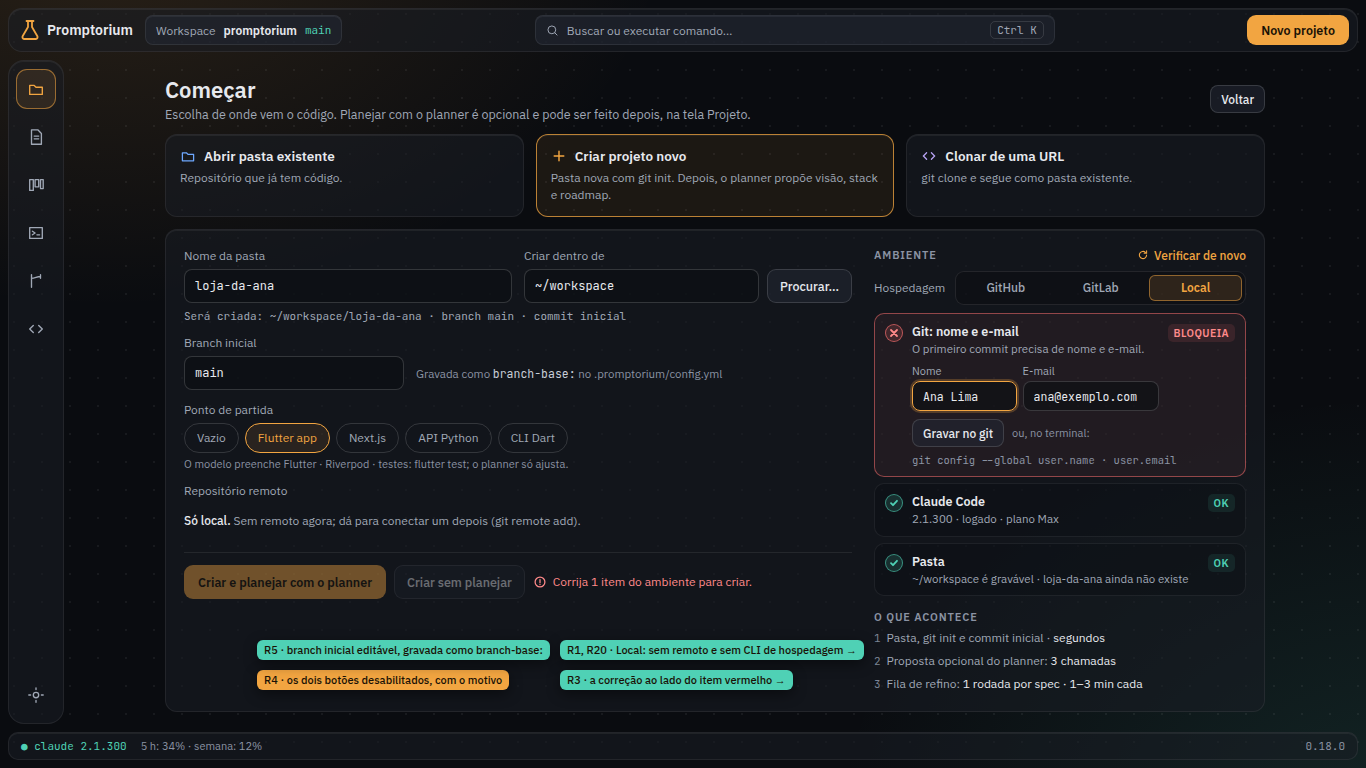
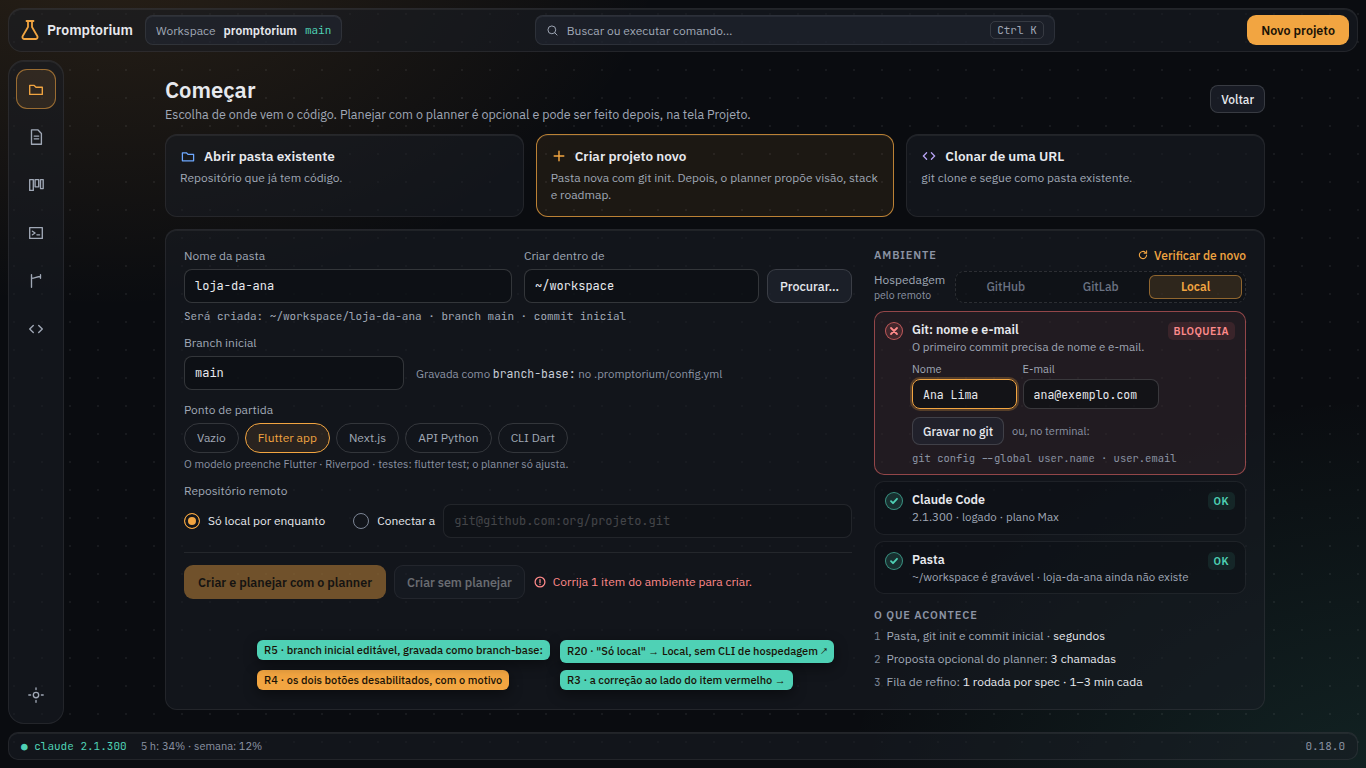
docs(spec-072): a hospedagem segue o Repositório remoto (R20–R22, P11)

diff --git a/docs/mockups/spec-072/Gitlab.dc.html b/docs/mockups/spec-072/Gitlab.dc.html
@@ -103,8 +103,8 @@ a{color:#F2A541}a:hover{color:#FFD08A}
    <span class="lbl" style="margin-top:12px">Ponto de partida</span>
    <div style="display:flex;gap:6px;flex-wrap:wrap"><span class="chip">Vazio</span><span class="chip on">Flutter app</span><span class="chip">Next.js</span><span class="chip">API Python</span><span class="chip">CLI Dart</span></div>
    <div style="font-size:11px;color:#8B93A3;margin-top:4px">O modelo preenche Flutter · Riverpod · testes: flutter test; o planner só ajusta.</div>
-   <span class="lbl" style="margin-top:12px">Repositório remoto · GitLab</span>
-   <div style="display:flex;gap:8px"><input class="in" style="width:150px;flex:none" value="gitlab.com" aria-label="Host do GitLab"><input class="in foc" style="flex:1" value="git@gitlab.com:ana-lima/loja-da-ana.git" aria-label="URL do remoto"></div><div style="font-size:11px;color:#8B93A3;margin-top:4px">GitLab próprio: troque o host. O glab confere esse host, e ele vai para hospedagem: no config.yml.</div>
+   <span class="lbl" style="margin-top:12px">Repositório remoto</span>
+   <div style="display:flex;align-items:center;gap:8px;font-size:12px"><span class="radio"></span>Só local por enquanto<span style="width:12px"></span><span class="radio on"></span>Conectar a<input class="in" style="flex:1" value="git@gitlab.com:ana-lima/loja-da-ana.git"></div>
    <div style="height:1px;background:rgba(255,255,255,.08);margin:14px 0 12px"></div>
    <div style="display:flex;align-items:center;gap:8px">
     <button class="cta">Criar e planejar com o planner</button>
@@ -114,7 +114,7 @@ a{color:#F2A541}a:hover{color:#FFD08A}
   </div>
   <div style="width:372px;flex:none;display:flex;flex-direction:column;gap:6px">
    <div style="display:flex;align-items:center;margin-bottom:2px"><span class="cap" style="flex:1">Ambiente</span><button class="link"><svg aria-hidden="true" width="12" height="12" viewBox="0 0 20 20" fill="none" stroke="#F2A541" stroke-width="1.8" stroke-linecap="round"><path d="M16 10a6 6 0 1 1-2-4.5M16 3v4h-4"/></svg>Verificar de novo</button></div>
-   <div style="display:flex;align-items:center;gap:10px;margin-bottom:2px"><span style="font-size:12px;color:#A0A8B6">Hospedagem</span><div role="radiogroup" aria-label="Hospedagem" style="flex:1;display:flex;padding:3px;gap:2px;border-radius:9px;background:rgba(10,12,16,.45);border:1px solid rgba(255,255,255,.09)"><button role="radio" aria-checked="false" style="flex:1;height:26px;border:0;border-radius:6px;font:500 12px IBM Plex Sans;background:transparent;color:#A0A8B6">GitHub</button><button role="radio" aria-checked="true" style="flex:1;height:26px;border:0;border-radius:6px;font:500 12px IBM Plex Sans;background:rgba(242,165,65,.14);box-shadow:inset 0 0 0 1px rgba(242,165,65,.5);color:#F2A541;font-weight:600">GitLab</button><button role="radio" aria-checked="false" style="flex:1;height:26px;border:0;border-radius:6px;font:500 12px IBM Plex Sans;background:transparent;color:#A0A8B6">Local</button></div></div>
+   <div style="display:flex;align-items:center;gap:10px;margin-bottom:2px"><span style="font-size:12px;color:#A0A8B6;line-height:1.25">Hospedagem<br><span style="font-size:10.5px;color:#8B93A3">pelo remoto</span></span><div role="status" aria-label="Hospedagem detectada pelo remoto: GitLab" style="flex:1;display:flex;padding:3px;gap:2px;border-radius:9px;background:rgba(10,12,16,.3);border:1px dashed rgba(255,255,255,.12)"><span style="flex:1;height:24px;display:flex;align-items:center;justify-content:center;border-radius:6px;font:500 12px IBM Plex Sans;background:transparent;color:#6B7383">GitHub</span><span style="flex:1;height:24px;display:flex;align-items:center;justify-content:center;border-radius:6px;font:500 12px IBM Plex Sans;background:rgba(242,165,65,.14);box-shadow:inset 0 0 0 1px rgba(242,165,65,.5);color:#F2A541;font-weight:600">GitLab</span><span style="flex:1;height:24px;display:flex;align-items:center;justify-content:center;border-radius:6px;font:500 12px IBM Plex Sans;background:transparent;color:#6B7383">Local</span></div></div>
    <ul style="margin:0;padding:0;display:flex;flex-direction:column;gap:5px" aria-live="polite">
     <li class="chk" style="padding:7px 10px;align-items:center"><span class="mk ok" aria-hidden="true"><svg width="10" height="10" viewBox="0 0 10 10" fill="none" stroke="#4FD1B5" stroke-width="1.8" stroke-linecap="round" stroke-linejoin="round"><path d="M2 5.2l2 2 4-4.4"/></svg></span><div class="t" style="flex-direction:row;gap:8px;align-items:baseline"><b style="flex:none">Git</b><small style="white-space:nowrap;overflow:hidden;text-overflow:ellipsis">Ana Lima · ana@exemplo.com</small></div><span class="st ok" style="margin-top:0">ok</span></li>
     <li class="chk" style="padding:7px 10px;align-items:center"><span class="mk ok" aria-hidden="true"><svg width="10" height="10" viewBox="0 0 10 10" fill="none" stroke="#4FD1B5" stroke-width="1.8" stroke-linecap="round" stroke-linejoin="round"><path d="M2 5.2l2 2 4-4.4"/></svg></span><div class="t" style="flex-direction:row;gap:8px;align-items:baseline"><b style="flex:none">Claude Code</b><small style="white-space:nowrap;overflow:hidden;text-overflow:ellipsis">2.1.300 · logado · plano Max</small></div><span class="st ok" style="margin-top:0">ok</span></li>
@@ -132,7 +132,7 @@ a{color:#F2A541}a:hover{color:#FFD08A}
  </section>
 </div>
 </main>
-<div class="note" style="left:257px;top:640px">R21 · GitLab: host editável (self-hosted) e remoto sugerido</div>
+<div class="note" style="left:257px;top:640px">R20 · "Conectar a" com URL do gitlab.com → GitLab: confere o glab no host da URL ↗</div>
 <div class="note warn" style="left:257px;top:670px">R20 · glab deslogado é aviso, não bloqueia: "Criar" segue livre</div>
 </div>
 </x-dc>

diff --git a/docs/mockups/spec-072/TudoVerde.dc.html b/docs/mockups/spec-072/TudoVerde.dc.html
@@ -103,8 +103,8 @@ a{color:#F2A541}a:hover{color:#FFD08A}
    <span class="lbl" style="margin-top:12px">Ponto de partida</span>
    <div style="display:flex;gap:6px;flex-wrap:wrap"><span class="chip">Vazio</span><span class="chip on">Flutter app</span><span class="chip">Next.js</span><span class="chip">API Python</span><span class="chip">CLI Dart</span></div>
    <div style="font-size:11px;color:#8B93A3;margin-top:4px">O modelo preenche Flutter · Riverpod · testes: flutter test; o planner só ajusta.</div>
-   <span class="lbl" style="margin-top:12px">Repositório remoto · GitHub</span>
-   <input class="in" value="git@github.com:ana-lima/loja-da-ana.git"><div style="font-size:11px;color:#8B93A3;margin-top:4px">Sugerido pela conta do gh (ana-lima) e pelo nome da pasta.</div>
+   <span class="lbl" style="margin-top:12px">Repositório remoto</span>
+   <div style="display:flex;align-items:center;gap:8px;font-size:12px"><span class="radio"></span>Só local por enquanto<span style="width:12px"></span><span class="radio on"></span>Conectar a<input class="in" style="flex:1" value="git@github.com:ana-lima/loja-da-ana.git"></div>
    <div style="height:1px;background:rgba(255,255,255,.08);margin:14px 0 12px"></div>
    <div style="display:flex;align-items:center;gap:8px">
     <button class="cta">Criar e planejar com o planner</button>
@@ -114,7 +114,7 @@ a{color:#F2A541}a:hover{color:#FFD08A}
   </div>
   <div style="width:372px;flex:none;display:flex;flex-direction:column;gap:6px">
    <div style="display:flex;align-items:center;margin-bottom:2px"><span class="cap" style="flex:1">Ambiente</span><button class="link"><svg aria-hidden="true" width="12" height="12" viewBox="0 0 20 20" fill="none" stroke="#F2A541" stroke-width="1.8" stroke-linecap="round"><path d="M16 10a6 6 0 1 1-2-4.5M16 3v4h-4"/></svg>Verificar de novo</button></div>
-   <div style="display:flex;align-items:center;gap:10px;margin-bottom:2px"><span style="font-size:12px;color:#A0A8B6">Hospedagem</span><div role="radiogroup" aria-label="Hospedagem" style="flex:1;display:flex;padding:3px;gap:2px;border-radius:9px;background:rgba(10,12,16,.45);border:1px solid rgba(255,255,255,.09)"><button role="radio" aria-checked="true" style="flex:1;height:26px;border:0;border-radius:6px;font:500 12px IBM Plex Sans;background:rgba(242,165,65,.14);box-shadow:inset 0 0 0 1px rgba(242,165,65,.5);color:#F2A541;font-weight:600">GitHub</button><button role="radio" aria-checked="false" style="flex:1;height:26px;border:0;border-radius:6px;font:500 12px IBM Plex Sans;background:transparent;color:#A0A8B6">GitLab</button><button role="radio" aria-checked="false" style="flex:1;height:26px;border:0;border-radius:6px;font:500 12px IBM Plex Sans;background:transparent;color:#A0A8B6">Local</button></div></div>
+   <div style="display:flex;align-items:center;gap:10px;margin-bottom:2px"><span style="font-size:12px;color:#A0A8B6;line-height:1.25">Hospedagem<br><span style="font-size:10.5px;color:#8B93A3">pelo remoto</span></span><div role="status" aria-label="Hospedagem detectada pelo remoto: GitHub" style="flex:1;display:flex;padding:3px;gap:2px;border-radius:9px;background:rgba(10,12,16,.3);border:1px dashed rgba(255,255,255,.12)"><span style="flex:1;height:24px;display:flex;align-items:center;justify-content:center;border-radius:6px;font:500 12px IBM Plex Sans;background:rgba(242,165,65,.14);box-shadow:inset 0 0 0 1px rgba(242,165,65,.5);color:#F2A541;font-weight:600">GitHub</span><span style="flex:1;height:24px;display:flex;align-items:center;justify-content:center;border-radius:6px;font:500 12px IBM Plex Sans;background:transparent;color:#6B7383">GitLab</span><span style="flex:1;height:24px;display:flex;align-items:center;justify-content:center;border-radius:6px;font:500 12px IBM Plex Sans;background:transparent;color:#6B7383">Local</span></div></div>
    <ul style="margin:0;padding:0;display:flex;flex-direction:column;gap:5px" aria-live="polite">
     <li class="chk" style="padding:7px 10px;align-items:center"><span class="mk ok" aria-hidden="true"><svg width="10" height="10" viewBox="0 0 10 10" fill="none" stroke="#4FD1B5" stroke-width="1.8" stroke-linecap="round" stroke-linejoin="round"><path d="M2 5.2l2 2 4-4.4"/></svg></span><div class="t" style="flex-direction:row;gap:8px;align-items:baseline"><b style="flex:none">Git</b><small style="white-space:nowrap;overflow:hidden;text-overflow:ellipsis">Ana Lima · ana@exemplo.com</small></div><span class="st ok" style="margin-top:0">ok</span></li>
     <li class="chk" style="padding:7px 10px;align-items:center"><span class="mk ok" aria-hidden="true"><svg width="10" height="10" viewBox="0 0 10 10" fill="none" stroke="#4FD1B5" stroke-width="1.8" stroke-linecap="round" stroke-linejoin="round"><path d="M2 5.2l2 2 4-4.4"/></svg></span><div class="t" style="flex-direction:row;gap:8px;align-items:baseline"><b style="flex:none">Claude Code</b><small style="white-space:nowrap;overflow:hidden;text-overflow:ellipsis">2.1.300 · logado · plano Max</small></div><span class="st ok" style="margin-top:0">ok</span></li>
@@ -135,7 +135,7 @@ a{color:#F2A541}a:hover{color:#FFD08A}
 </div>
 </main>
 <div class="note" style="left:257px;top:640px">R5 · branch editada: vira git init -b trunk e branch-base: trunk</div>
-<div class="note" style="left:257px;top:670px">R20, R21 · GitHub: confere o gh e sugere o remoto pela conta</div>
+<div class="note" style="left:257px;top:670px">R20 · "Conectar a" com URL do github.com → GitHub: confere o gh ↗</div>
 <div class="note" style="left:610px;top:612px">R7, R8 · chamadas, fila e quota, sem dólar →</div>
 </div>
 </x-dc>

diff --git a/docs/mockups/spec-072/StackEscolhida.dc.html b/docs/mockups/spec-072/StackEscolhida.dc.html
@@ -103,8 +103,8 @@ a{color:#F2A541}a:hover{color:#FFD08A}
    <span class="lbl" style="margin-top:12px">Ponto de partida</span>
    <div style="display:flex;gap:6px;flex-wrap:wrap"><span class="chip">Vazio</span><span class="chip">Flutter app</span><span class="chip">Next.js</span><span class="chip">API Python</span><span class="chip">CLI Dart</span><button class="chip on" style="gap:6px" aria-label="Go · Fiber, escolhida com o Claude. Editar">Go · Fiber <svg aria-hidden="true" width="11" height="11" viewBox="0 0 20 20" fill="none" stroke="#F2A541" stroke-width="1.8" stroke-linecap="round" stroke-linejoin="round"><path d="M4 16l1-4 8-8 3 3-8 8zM11 6l3 3"/></svg></button></div>
    <div style="font-size:11px;color:#8B93A3;margin-top:4px">Definida com o Claude: Go · Fiber · PostgreSQL · testes: go test ./... · CLAUDE.md base; o planner só ajusta.</div>
-   <span class="lbl" style="margin-top:12px">Repositório remoto · GitHub</span>
-   <input class="in" value="git@github.com:ana-lima/loja-da-ana.git"><div style="font-size:11px;color:#8B93A3;margin-top:4px">Sugerido pela conta do gh (ana-lima) e pelo nome da pasta.</div>
+   <span class="lbl" style="margin-top:12px">Repositório remoto</span>
+   <div style="display:flex;align-items:center;gap:8px;font-size:12px"><span class="radio"></span>Só local por enquanto<span style="width:12px"></span><span class="radio on"></span>Conectar a<input class="in" style="flex:1" value="git@github.com:ana-lima/loja-da-ana.git"></div>
    <div style="height:1px;background:rgba(255,255,255,.08);margin:14px 0 12px"></div>
    <div style="display:flex;align-items:center;gap:8px">
     <button class="cta">Criar e planejar com o planner</button>
@@ -114,7 +114,7 @@ a{color:#F2A541}a:hover{color:#FFD08A}
   </div>
   <div style="width:372px;flex:none;display:flex;flex-direction:column;gap:6px">
    <div style="display:flex;align-items:center;margin-bottom:2px"><span class="cap" style="flex:1">Ambiente</span><button class="link"><svg aria-hidden="true" width="12" height="12" viewBox="0 0 20 20" fill="none" stroke="#F2A541" stroke-width="1.8" stroke-linecap="round"><path d="M16 10a6 6 0 1 1-2-4.5M16 3v4h-4"/></svg>Verificar de novo</button></div>
-   <div style="display:flex;align-items:center;gap:10px;margin-bottom:2px"><span style="font-size:12px;color:#A0A8B6">Hospedagem</span><div role="radiogroup" aria-label="Hospedagem" style="flex:1;display:flex;padding:3px;gap:2px;border-radius:9px;background:rgba(10,12,16,.45);border:1px solid rgba(255,255,255,.09)"><button role="radio" aria-checked="true" style="flex:1;height:26px;border:0;border-radius:6px;font:500 12px IBM Plex Sans;background:rgba(242,165,65,.14);box-shadow:inset 0 0 0 1px rgba(242,165,65,.5);color:#F2A541;font-weight:600">GitHub</button><button role="radio" aria-checked="false" style="flex:1;height:26px;border:0;border-radius:6px;font:500 12px IBM Plex Sans;background:transparent;color:#A0A8B6">GitLab</button><button role="radio" aria-checked="false" style="flex:1;height:26px;border:0;border-radius:6px;font:500 12px IBM Plex Sans;background:transparent;color:#A0A8B6">Local</button></div></div>
+   <div style="display:flex;align-items:center;gap:10px;margin-bottom:2px"><span style="font-size:12px;color:#A0A8B6;line-height:1.25">Hospedagem<br><span style="font-size:10.5px;color:#8B93A3">pelo remoto</span></span><div role="status" aria-label="Hospedagem detectada pelo remoto: GitHub" style="flex:1;display:flex;padding:3px;gap:2px;border-radius:9px;background:rgba(10,12,16,.3);border:1px dashed rgba(255,255,255,.12)"><span style="flex:1;height:24px;display:flex;align-items:center;justify-content:center;border-radius:6px;font:500 12px IBM Plex Sans;background:rgba(242,165,65,.14);box-shadow:inset 0 0 0 1px rgba(242,165,65,.5);color:#F2A541;font-weight:600">GitHub</span><span style="flex:1;height:24px;display:flex;align-items:center;justify-content:center;border-radius:6px;font:500 12px IBM Plex Sans;background:transparent;color:#6B7383">GitLab</span><span style="flex:1;height:24px;display:flex;align-items:center;justify-content:center;border-radius:6px;font:500 12px IBM Plex Sans;background:transparent;color:#6B7383">Local</span></div></div>
    <ul style="margin:0;padding:0;display:flex;flex-direction:column;gap:5px" aria-live="polite">
     <li class="chk" style="padding:7px 10px;align-items:center"><span class="mk ok" aria-hidden="true"><svg width="10" height="10" viewBox="0 0 10 10" fill="none" stroke="#4FD1B5" stroke-width="1.8" stroke-linecap="round" stroke-linejoin="round"><path d="M2 5.2l2 2 4-4.4"/></svg></span><div class="t" style="flex-direction:row;gap:8px;align-items:baseline"><b style="flex:none">Git</b><small style="white-space:nowrap;overflow:hidden;text-overflow:ellipsis">Ana Lima · ana@exemplo.com</small></div><span class="st ok" style="margin-top:0">ok</span></li>
     <li class="chk" style="padding:7px 10px;align-items:center"><span class="mk ok" aria-hidden="true"><svg width="10" height="10" viewBox="0 0 10 10" fill="none" stroke="#4FD1B5" stroke-width="1.8" stroke-linecap="round" stroke-linejoin="round"><path d="M2 5.2l2 2 4-4.4"/></svg></span><div class="t" style="flex-direction:row;gap:8px;align-items:baseline"><b style="flex:none">Claude Code</b><small style="white-space:nowrap;overflow:hidden;text-overflow:ellipsis">2.1.300 · logado · plano Max</small></div><span class="st ok" style="margin-top:0">ok</span></li>

diff --git a/docs/mockups/spec-072/Outro.dc.html b/docs/mockups/spec-072/Outro.dc.html
@@ -103,8 +103,8 @@ a{color:#F2A541}a:hover{color:#FFD08A}
    <span class="lbl" style="margin-top:12px">Ponto de partida</span>
    <div style="display:flex;gap:6px;flex-wrap:wrap"><span class="chip">Vazio</span><span class="chip">Flutter app</span><span class="chip">Next.js</span><span class="chip">API Python</span><span class="chip">CLI Dart</span><span class="chip on">Outro…</span></div>
    <div style="font-size:11px;color:#8B93A3;margin-top:4px">O modelo preenche Flutter · Riverpod · testes: flutter test; o planner só ajusta.</div>
-   <span class="lbl" style="margin-top:12px">Repositório remoto · GitHub</span>
-   <input class="in" value="git@github.com:ana-lima/loja-da-ana.git"><div style="font-size:11px;color:#8B93A3;margin-top:4px">Sugerido pela conta do gh (ana-lima) e pelo nome da pasta.</div>
+   <span class="lbl" style="margin-top:12px">Repositório remoto</span>
+   <div style="display:flex;align-items:center;gap:8px;font-size:12px"><span class="radio"></span>Só local por enquanto<span style="width:12px"></span><span class="radio on"></span>Conectar a<input class="in" style="flex:1" value="git@github.com:ana-lima/loja-da-ana.git"></div>
    <div style="height:1px;background:rgba(255,255,255,.08);margin:14px 0 12px"></div>
    <div style="display:flex;align-items:center;gap:8px">
     <button class="cta">Criar e planejar com o planner</button>
@@ -114,7 +114,7 @@ a{color:#F2A541}a:hover{color:#FFD08A}
   </div>
   <div style="width:372px;flex:none;display:flex;flex-direction:column;gap:6px">
    <div style="display:flex;align-items:center;margin-bottom:2px"><span class="cap" style="flex:1">Ambiente</span><button class="link"><svg aria-hidden="true" width="12" height="12" viewBox="0 0 20 20" fill="none" stroke="#F2A541" stroke-width="1.8" stroke-linecap="round"><path d="M16 10a6 6 0 1 1-2-4.5M16 3v4h-4"/></svg>Verificar de novo</button></div>
-   <div style="display:flex;align-items:center;gap:10px;margin-bottom:2px"><span style="font-size:12px;color:#A0A8B6">Hospedagem</span><div role="radiogroup" aria-label="Hospedagem" style="flex:1;display:flex;padding:3px;gap:2px;border-radius:9px;background:rgba(10,12,16,.45);border:1px solid rgba(255,255,255,.09)"><button role="radio" aria-checked="true" style="flex:1;height:26px;border:0;border-radius:6px;font:500 12px IBM Plex Sans;background:rgba(242,165,65,.14);box-shadow:inset 0 0 0 1px rgba(242,165,65,.5);color:#F2A541;font-weight:600">GitHub</button><button role="radio" aria-checked="false" style="flex:1;height:26px;border:0;border-radius:6px;font:500 12px IBM Plex Sans;background:transparent;color:#A0A8B6">GitLab</button><button role="radio" aria-checked="false" style="flex:1;height:26px;border:0;border-radius:6px;font:500 12px IBM Plex Sans;background:transparent;color:#A0A8B6">Local</button></div></div>
+   <div style="display:flex;align-items:center;gap:10px;margin-bottom:2px"><span style="font-size:12px;color:#A0A8B6;line-height:1.25">Hospedagem<br><span style="font-size:10.5px;color:#8B93A3">pelo remoto</span></span><div role="status" aria-label="Hospedagem detectada pelo remoto: GitHub" style="flex:1;display:flex;padding:3px;gap:2px;border-radius:9px;background:rgba(10,12,16,.3);border:1px dashed rgba(255,255,255,.12)"><span style="flex:1;height:24px;display:flex;align-items:center;justify-content:center;border-radius:6px;font:500 12px IBM Plex Sans;background:rgba(242,165,65,.14);box-shadow:inset 0 0 0 1px rgba(242,165,65,.5);color:#F2A541;font-weight:600">GitHub</span><span style="flex:1;height:24px;display:flex;align-items:center;justify-content:center;border-radius:6px;font:500 12px IBM Plex Sans;background:transparent;color:#6B7383">GitLab</span><span style="flex:1;height:24px;display:flex;align-items:center;justify-content:center;border-radius:6px;font:500 12px IBM Plex Sans;background:transparent;color:#6B7383">Local</span></div></div>
    <ul style="margin:0;padding:0;display:flex;flex-direction:column;gap:5px" aria-live="polite">
     <li class="chk" style="padding:7px 10px;align-items:center"><span class="mk ok" aria-hidden="true"><svg width="10" height="10" viewBox="0 0 10 10" fill="none" stroke="#4FD1B5" stroke-width="1.8" stroke-linecap="round" stroke-linejoin="round"><path d="M2 5.2l2 2 4-4.4"/></svg></span><div class="t" style="flex-direction:row;gap:8px;align-items:baseline"><b style="flex:none">Git</b><small style="white-space:nowrap;overflow:hidden;text-overflow:ellipsis">Ana Lima · ana@exemplo.com</small></div><span class="st ok" style="margin-top:0">ok</span></li>
     <li class="chk" style="padding:7px 10px;align-items:center"><span class="mk ok" aria-hidden="true"><svg width="10" height="10" viewBox="0 0 10 10" fill="none" stroke="#4FD1B5" stroke-width="1.8" stroke-linecap="round" stroke-linejoin="round"><path d="M2 5.2l2 2 4-4.4"/></svg></span><div class="t" style="flex-direction:row;gap:8px;align-items:baseline"><b style="flex:none">Claude Code</b><small style="white-space:nowrap;overflow:hidden;text-overflow:ellipsis">2.1.300 · logado · plano Max</small></div><span class="st ok" style="margin-top:0">ok</span></li>

diff --git a/docs/mockups/spec-072/Main.dc.html b/docs/mockups/spec-072/Main.dc.html
@@ -104,7 +104,7 @@ a{color:#F2A541}a:hover{color:#FFD08A}
    <div style="display:flex;gap:6px;flex-wrap:wrap"><span class="chip">Vazio</span><span class="chip on">Flutter app</span><span class="chip">Next.js</span><span class="chip">API Python</span><span class="chip">CLI Dart</span></div>
    <div style="font-size:11px;color:#8B93A3;margin-top:4px">O modelo preenche Flutter · Riverpod · testes: flutter test; o planner só ajusta.</div>
    <span class="lbl" style="margin-top:12px">Repositório remoto</span>
-   <div style="font-size:12px;color:#A0A8B6;line-height:34px"><b style="color:#E7E9EE;font-weight:500">Só local.</b> Sem remoto agora; dá para conectar um depois (git remote add).</div>
+   <div style="display:flex;align-items:center;gap:8px;font-size:12px"><span class="radio on"></span>Só local por enquanto<span style="width:12px"></span><span class="radio"></span>Conectar a<input class="in" style="flex:1;opacity:.5" value="" placeholder="git@github.com:org/projeto.git"></div>
    <div style="height:1px;background:rgba(255,255,255,.08);margin:14px 0 12px"></div>
    <div style="display:flex;align-items:center;gap:8px">
     <button class="cta off" aria-disabled="true">Criar e planejar com o planner</button>
@@ -114,7 +114,7 @@ a{color:#F2A541}a:hover{color:#FFD08A}
   </div>
   <div style="width:372px;flex:none;display:flex;flex-direction:column;gap:6px">
    <div style="display:flex;align-items:center;margin-bottom:2px"><span class="cap" style="flex:1">Ambiente</span><button class="link"><svg aria-hidden="true" width="12" height="12" viewBox="0 0 20 20" fill="none" stroke="#F2A541" stroke-width="1.8" stroke-linecap="round"><path d="M16 10a6 6 0 1 1-2-4.5M16 3v4h-4"/></svg>Verificar de novo</button></div>
-   <div style="display:flex;align-items:center;gap:10px;margin-bottom:2px"><span style="font-size:12px;color:#A0A8B6">Hospedagem</span><div role="radiogroup" aria-label="Hospedagem" style="flex:1;display:flex;padding:3px;gap:2px;border-radius:9px;background:rgba(10,12,16,.45);border:1px solid rgba(255,255,255,.09)"><button role="radio" aria-checked="false" style="flex:1;height:26px;border:0;border-radius:6px;font:500 12px IBM Plex Sans;background:transparent;color:#A0A8B6">GitHub</button><button role="radio" aria-checked="false" style="flex:1;height:26px;border:0;border-radius:6px;font:500 12px IBM Plex Sans;background:transparent;color:#A0A8B6">GitLab</button><button role="radio" aria-checked="true" style="flex:1;height:26px;border:0;border-radius:6px;font:500 12px IBM Plex Sans;background:rgba(242,165,65,.14);box-shadow:inset 0 0 0 1px rgba(242,165,65,.5);color:#F2A541;font-weight:600">Local</button></div></div>
+   <div style="display:flex;align-items:center;gap:10px;margin-bottom:2px"><span style="font-size:12px;color:#A0A8B6;line-height:1.25">Hospedagem<br><span style="font-size:10.5px;color:#8B93A3">pelo remoto</span></span><div role="status" aria-label="Hospedagem detectada pelo remoto: Local" style="flex:1;display:flex;padding:3px;gap:2px;border-radius:9px;background:rgba(10,12,16,.3);border:1px dashed rgba(255,255,255,.12)"><span style="flex:1;height:24px;display:flex;align-items:center;justify-content:center;border-radius:6px;font:500 12px IBM Plex Sans;background:transparent;color:#6B7383">GitHub</span><span style="flex:1;height:24px;display:flex;align-items:center;justify-content:center;border-radius:6px;font:500 12px IBM Plex Sans;background:transparent;color:#6B7383">GitLab</span><span style="flex:1;height:24px;display:flex;align-items:center;justify-content:center;border-radius:6px;font:500 12px IBM Plex Sans;background:rgba(242,165,65,.14);box-shadow:inset 0 0 0 1px rgba(242,165,65,.5);color:#F2A541;font-weight:600">Local</span></div></div>
    <ul style="margin:0;padding:0;display:flex;flex-direction:column;gap:6px" aria-live="polite">
     <li class="chk bad">
      <span class="mk bad" aria-hidden="true"><svg width="10" height="10" viewBox="0 0 10 10" stroke="#FF8A8A" stroke-width="1.8" stroke-linecap="round"><path d="M2 2l6 6M8 2l-6 6"/></svg></span>
@@ -143,7 +143,7 @@ a{color:#F2A541}a:hover{color:#FFD08A}
 </main>
 <div class="note warn" style="left:257px;top:670px">R4 · os dois botões desabilitados, com o motivo</div>
 <div class="note" style="left:257px;top:640px">R5 · branch inicial editável, gravada como branch-base:</div>
-<div class="note" style="left:560px;top:640px">R1, R20 · Local: sem remoto e sem CLI de hospedagem →</div>
+<div class="note" style="left:560px;top:640px">R20 · "Só local" → Local, sem CLI de hospedagem ↗</div>
 <div class="note" style="left:560px;top:670px">R3 · a correção ao lado do item vermelho →</div>
 </div>
 </x-dc>

diff --git a/docs/specs/SPEC-072-criacao-confiavel.md b/docs/specs/SPEC-072-criacao-confiavel.md
@@ -13,7 +13,7 @@ A tela Começar promete "1 s" e "~US$ 0,30". Na prática, criar e planejar leva 
 
 A SPEC-071 (R21–R26) já fez a base: repetir a criação depois de uma falha, conferir a identidade do git antes de criar a pasta, `git init -b main`, specs do roadmap no Backlog, o CLAUDE.md do modelo como base do planner e a limpeza do fluxo. Esta spec fecha o resto das faixas A1, A2, A4 e B4 do relatório de novidades:
 
-- **Checagem do ambiente** na tela Começar: git, Claude Code, a hospedagem e a pasta, cada um com a marca e a correção ao lado. A pessoa escolhe a hospedagem (GitHub, GitLab ou Local). "Criar" fica desabilitado enquanto houver bloqueio.
+- **Checagem do ambiente** na tela Começar: git, Claude Code, a hospedagem e a pasta, cada um com a marca e a correção ao lado. A hospedagem (GitHub, GitLab ou Local) sai do "Repositório remoto". "Criar" fica desabilitado enquanto houver bloqueio.
 - **Branch inicial editável**, gravada como `branch-base:` no config.yml.
 - **Custo e tempo honestos**: chamadas do planner, fila em "N specs × tempo" e, no plano Max, o uso da quota em vez de dólares.
 - **Comandos da stack no config.yml**, editáveis na etapa Stack e mesclados sem sobrescrever. A Saúde e "Analisar repositório" voltam ao stepper.
@@ -24,14 +24,14 @@ Mockup: [canvas do Claude Design](https://claude.ai/artifact/MjpXpDuiv3RU1z3CL4Z
 | Captura | O que mostra | Requisitos |
 |---|---|---|
 | `1-antes.png` | Hoje: Começar com "1 s · ~US$ 0,30", branch fixa e nenhuma checagem | — |
-| `2-ambiente.png` | O painel Ambiente com a hospedagem Local, o git vermelho, os campos que gravam nome e e-mail e os botões de criar desabilitados, com o motivo | R1, R2, R3, R4, R15, R20, R21 |
-| `3-tudo-verde.png` | Tudo verde com a hospedagem GitHub, o remoto sugerido pela conta do gh, a branch inicial editada e o custo honesto com o uso da quota do plano Max | R1, R5, R6, R7, R8, R20, R21 |
+| `2-ambiente.png` | O painel Ambiente com "Só local" marcado e, por isso, a hospedagem Local, o git vermelho, os campos que gravam nome e e-mail e os botões de criar desabilitados, com o motivo | R1, R2, R3, R4, R15, R20, R21 |
+| `3-tudo-verde.png` | Tudo verde: "Conectar a" com URL do github.com marca GitHub e confere o gh; a branch inicial editada e o custo honesto com o uso da quota do plano Max | R1, R5, R6, R7, R8, R20, R21 |
 | `4-comandos.png` | A etapa Stack com o bloco Comandos, a chave do config.yml de cada um e o que já existe | R11, R12, R14 |
 | `5-revisar.png` | Revisar e criar com o config.yml mesclado (linhas novas e mantidas) e a seção Custo e tempo | R9, R10, R13 |
 | `6-saude.png` | O stepper com "Saúde do projeto" e a Saúde aberta, com "Analisar repositório" | R14 |
 | `7-outro.png` | O chip "Outro…" abriu o modal "Definir a stack com o Claude": a descrição, a proposta com as decisões, os comandos editáveis, o scaffold e o CLAUDE.md base | R16, R17, R18 |
 | `8-stack-escolhida.png` | De volta ao Começar: o chip "Go · Fiber" selecionado, com o lápis, a linha do que será preenchido e as chamadas do modal no custo | R18, R19 |
-| `9-gitlab.png` | GitLab escolhido: o glab deslogado em âmbar com "Abrir terminal com glab auth login", o host editável e o remoto do GitLab | R20, R21, R22 |
+| `9-gitlab.png` | "Conectar a" com URL do gitlab.com marca GitLab: o glab deslogado em âmbar, com "Abrir terminal com glab auth login" | R20, R22 |
 
 Issue: [#241](https://github.com/mayroncachina/promptorium/issues/241) (sub-issue de #240) · PR: [#244](https://github.com/mayroncachina/promptorium/pull/244)
 
@@ -42,7 +42,7 @@ Checagem do ambiente (A2):
 - R1 · **Painel Ambiente.** Em "Criar projeto novo", a coluna da direita da tela Começar ganha o bloco "Ambiente", acima de "O que acontece". São quatro itens, cada um com uma marca e uma linha do que foi achado:
   - **Git**: instalado e com nome e e-mail, pela mesma regra do `RepoSetup.checkIdentity` (`git var GIT_AUTHOR_IDENT` e `GIT_COMMITTER_IDENT`). Verde mostra "Ana Lima · ana@exemplo.com".
   - **Claude Code**: instalado, compatível e logado, pelo `providerAvailabilityProvider('claude')`. Verde mostra a versão e o plano ("2.1.300 · plano Max").
-  - **Hospedagem**: a CLI da hospedagem escolhida (R20): `gh auth status` no GitHub, `glab auth status` no GitLab. Na hospedagem Local, o item não aparece.
+  - **Hospedagem**: a CLI da hospedagem detectada pelo remoto (R20): `gh auth status` no GitHub, `glab auth status` no GitLab. Na hospedagem Local, o item não aparece.
   - **Pasta**: "Criar dentro de" existe e é gravável, e o destino não existe ou é sobra de uma criação anterior (`isCreationLeftover`).
   - A marca é verde (ok), vermelha (bloqueia) ou âmbar (aviso), sempre com a palavra ao lado.
 - R2 · **Quando confere.** Ao abrir "Criar projeto novo"; ao mudar o nome, a pasta ou o remoto (só os itens Pasta e GitHub, 300 ms depois da última tecla); e em "Verificar de novo".
@@ -64,18 +64,17 @@ Checagem do ambiente (A2):
 
 Hospedagem:
 
-- R20 · **Seletor de hospedagem.** No topo do painel Ambiente, um seletor segmentado: **GitHub · GitLab · Local**.
-  - GitHub e GitLab conferem a CLI pela `CliReviewHost.availability` do Review (`GithubHost`, `GitlabHost`), que já separa CLI ausente, login, rede e versão incompatível. O item segue a R3 e a R4: é aviso, nunca bloqueio.
-  - No GitLab, o glab logado fica verde com a linha "MR pelo app ainda não disponível (DT-55)". O `unsupported` da `availability` não vira aviso aqui.
-  - Local não confere CLI de hospedagem.
-  - O padrão segue a P11.
-- R21 · **A hospedagem muda o "Repositório remoto".** Sai o par "Só local por enquanto / Conectar a".
-  - GitHub: o campo do remoto vem sugerido como `git@github.com:<conta>/<pasta>.git`, com a conta do `GhAuth.account`. A pessoa pode editar (uma organização, por exemplo).
-  - GitLab: um campo Host (`gitlab.com` por padrão, editável para um GitLab próprio) e o remoto sugerido como `git@<host>:<usuário>/<pasta>.git`, com o usuário do `glab auth status`. O glab confere esse host.
-  - Local: a seção diz "Só local. Sem remoto agora; dá para conectar um depois (git remote add)", e nenhum `origin` é gravado.
-  - Um remoto digitado cujo host não bate com a hospedagem (`remoteHost`) mostra um aviso ao lado: "O remoto é do github.com, mas a hospedagem é GitLab".
-  - A conta ou o usuário não vieram? O campo fica vazio, com o modelo como dica.
-- R22 · **A escolha vai para o config.yml.** GitHub e GitLab gravam `hospedagem: {host, tipo}` (as chaves que o `ProjectConfig` já lê e que o `detectReviewHost` usa para um host próprio), antes do commit inicial. Local não grava `hospedagem:`.
+- R20 · **A hospedagem segue o "Repositório remoto".** A fonte da verdade é o rádio que já existe: **Só local por enquanto** ou **Conectar a [URL]**. No topo do Ambiente, a hospedagem detectada aparece marcada num indicador **GitHub · GitLab · Local**, que só mostra, não se clica:
+  - "Só local" → **Local**: sem checagem de CLI de hospedagem;
+  - "Conectar a" com URL do `github.com` → **GitHub**: confere o `gh`;
+  - "Conectar a" com URL do `gitlab.com`, ou do host gravado em `hospedagem.host` com `tipo: gitlab` → **GitLab**: confere o `glab` no host da URL;
+  - URL de outro host → nenhum dos três marcado: só a checagem do git, com a linha "Hospedagem não reconhecida: PR e MR pelo app indisponíveis".
+  - A detecção é o `remoteHost` e o `detectReviewHost` do Review. A checagem da CLI é a `CliReviewHost.availability` (`GithubHost`, `GitlabHost`), que já separa CLI ausente, login, rede e versão incompatível.
+  - Trocar o rádio ou a URL atualiza o indicador e a checagem na hora (300 ms depois da última tecla, R2).
+  - A CLI da hospedagem segue a R3 e a R4: é aviso, nunca bloqueio. No GitLab, o glab logado fica verde com a linha "MR pelo app ainda não disponível (DT-55)"; o `unsupported` da `availability` não vira aviso aqui.
+  - O indicador é texto ("Hospedagem detectada pelo remoto: GitHub"), não só cor.
+- R21 · **O rádio continua como hoje**, com "Só local por enquanto" marcado por padrão e a URL de "Conectar a" digitada pela pessoa. O app não sugere remoto. Um GitLab próprio só é reconhecido pelo `hospedagem:` do config.yml; num projeto novo ele cai em "não reconhecida" (P11).
+- R22 · **A hospedagem detectada vai para o config.yml.** GitHub e GitLab gravam `hospedagem: {host, tipo}` (as chaves que o `ProjectConfig` já lê e que o `detectReviewHost` usa), antes do commit inicial. Local e hospedagem não reconhecida não gravam `hospedagem:`.
 
 Branch inicial (resto da A1):
 
@@ -202,7 +201,7 @@ Também fica de fora a checagem do ambiente nos caminhos "Abrir pasta existente"
 ### Componentes
 
 - `EnvironmentCheck` (novo, `lib/features/project/environment_check.dart`): os quatro itens (`EnvItem`: estado, linha, correção), cada um com sua função de checagem e limite de 5 s. Provider por pasta e remoto. Testável com `ProcessRunner` falso.
-- `EnvironmentPanel` (novo, `widgets/environment_panel.dart`): o bloco Ambiente, o seletor de hospedagem e as correções (campos do git, botões de terminal, "Verificar de novo"). O item da hospedagem chama a `CliReviewHost.availability` do Review, sem duplicar a sondagem.
+- `EnvironmentPanel` (novo, `widgets/environment_panel.dart`): o bloco Ambiente, o indicador de hospedagem (derivado do rádio e da URL) e as correções (campos do git, botões de terminal, "Verificar de novo"). O item da hospedagem chama a `CliReviewHost.availability` do Review, sem duplicar a sondagem.
 - `RepoSetup`: `init(folder, branch:)`, `setGlobalIdentity(name, email)` e `checkBranchName(name)`.
 - `CostEstimate` (novo, `lib/features/project/cost_estimate.dart`): o texto de "O que acontece" e de "Custo e tempo" a partir do plano (assinatura ou API), do `rateLimitProvider`, das durações gravadas e do `specMetricsProvider`. O widget `UsageBlock` é usado na tela Começar e em Revisar e criar.
 - `StackPlan.commands` (`StackCommands`: `install`, `run`, `dev`, `test`, `lint`, `format`, com os fixados) e `mergeStackCommands(ProjectConfig, StackCommands)`, que segue a regra do `applyDetection`.
@@ -229,8 +228,8 @@ A t3 também atualiza `docs/guia/projeto.md`. A t4 depende da t1 (o estado do Cl
 - [ ] A checagem roda ao abrir, ao mudar pasta ou remoto e em "Verificar de novo", e um item lento fica âmbar sem bloquear [R2] verificar: flutter test test/features/project
 - [ ] "Gravar no git" grava nome e e-mail e o item fica verde; os botões de terminal abrem o comando certo [R3] verificar: flutter test test/features/project
 - [ ] Git ou pasta vermelhos desabilitam os dois botões; Claude vermelho desabilita só "Criar e planejar"; GitHub nunca bloqueia [R4] verificar: flutter test test/features/project
-- [ ] O seletor troca o item da hospedagem e o remoto sugerido; Local esconde o item e não grava `origin`; a CLI deslogada é aviso [R20, R21] verificar: flutter test test/features/project
-- [ ] GitLab com host próprio confere o glab nesse host e grava `hospedagem:` no config.yml; Local não grava [R21, R22] verificar: flutter test test/features/project
+- [ ] O indicador segue o rádio e a URL: "Só local" → Local sem CLI, github.com → gh, gitlab.com → glab, outro host → só git com "Hospedagem não reconhecida"; trocar a URL atualiza na hora; a CLI deslogada é aviso [R20, R21] verificar: flutter test test/features/project
+- [ ] GitHub e GitLab gravam `hospedagem:` no config.yml; Local e host não reconhecido não gravam [R22] verificar: flutter test test/features/project
 - [ ] Uma branch inválida bloqueia; a branch escolhida vira a branch do repositório e o `branch-base:` do config.yml [R5, R6] verificar: flutter test test/core/git test/features/project
 - [ ] "O que acontece" não tem "1 s" nem "US$ 0,30" e mostra as chamadas e a fila [R7] verificar: flutter test test/features/project
 - [ ] No plano por assinatura aparecem a quota e "N chamadas"; com chave de API, o teto em dólares [R8] verificar: flutter test test/features/project
@@ -261,4 +260,4 @@ A t3 também atualiza `docs/guia/projeto.md`. A t4 depende da t1 (o estado do Cl
 - P8 · **Saúde como link do stepper, não como passo.** Ela não faz parte do planejamento, e o link segue o padrão de Configuração, Memória e Métricas. Recomendação: link.
 - P9 · **A stack de "Outro…" não sobrevive a fechar a tela Começar.** Ela vive na tela até criar; ao criar, vai para o config.yml, o CLAUDE.md e o plano. Alternativa: guardar as últimas stacks em `app_settings`, como chips extras para o próximo projeto, que é o que o recurso 05 do relatório (kits de projeto) faria melhor. Recomendação: não guardar agora.
 - P10 · **O app não roda o scaffold.** O comando vai para o CLAUDE.md e para a primeira spec da Fundação, e quem roda é o agente, com gate e Review. Alternativa: rodar na criação, o que é a B3 e exige conferir cada comando. Recomendação: não rodar agora.
-- P11 · **Hospedagem padrão.** Na primeira vez: GitHub se o `gh` estiver logado, senão Local. O GitLab só quando a pessoa escolher, porque a integração de MR ainda falta (DT-55). Depois, o app lembra a última escolha (`app_settings`). Alternativa: começar sempre em Local. Recomendação: a proposta.
+- P11 · **Resolvida: a hospedagem não tem padrão próprio.** Ela sai do rádio "Repositório remoto", que começa em "Só local por enquanto", como hoje. Por isso o indicador do Ambiente só mostra, não se clica: um seletor clicável competiria com o rádio. Fica em aberto só o GitLab próprio (um host que não é `gitlab.com`): num projeto novo não há `hospedagem:` para reconhecê-lo. Alternativa: perguntar "Este host é GitLab?" quando a URL não for reconhecida e o `glab` conhecer o host (`glab auth status --hostname`). Recomendação: deixar para quando o DT-55 trouxer o MR pelo app; até lá, "não reconhecida" não muda nada no fluxo.
